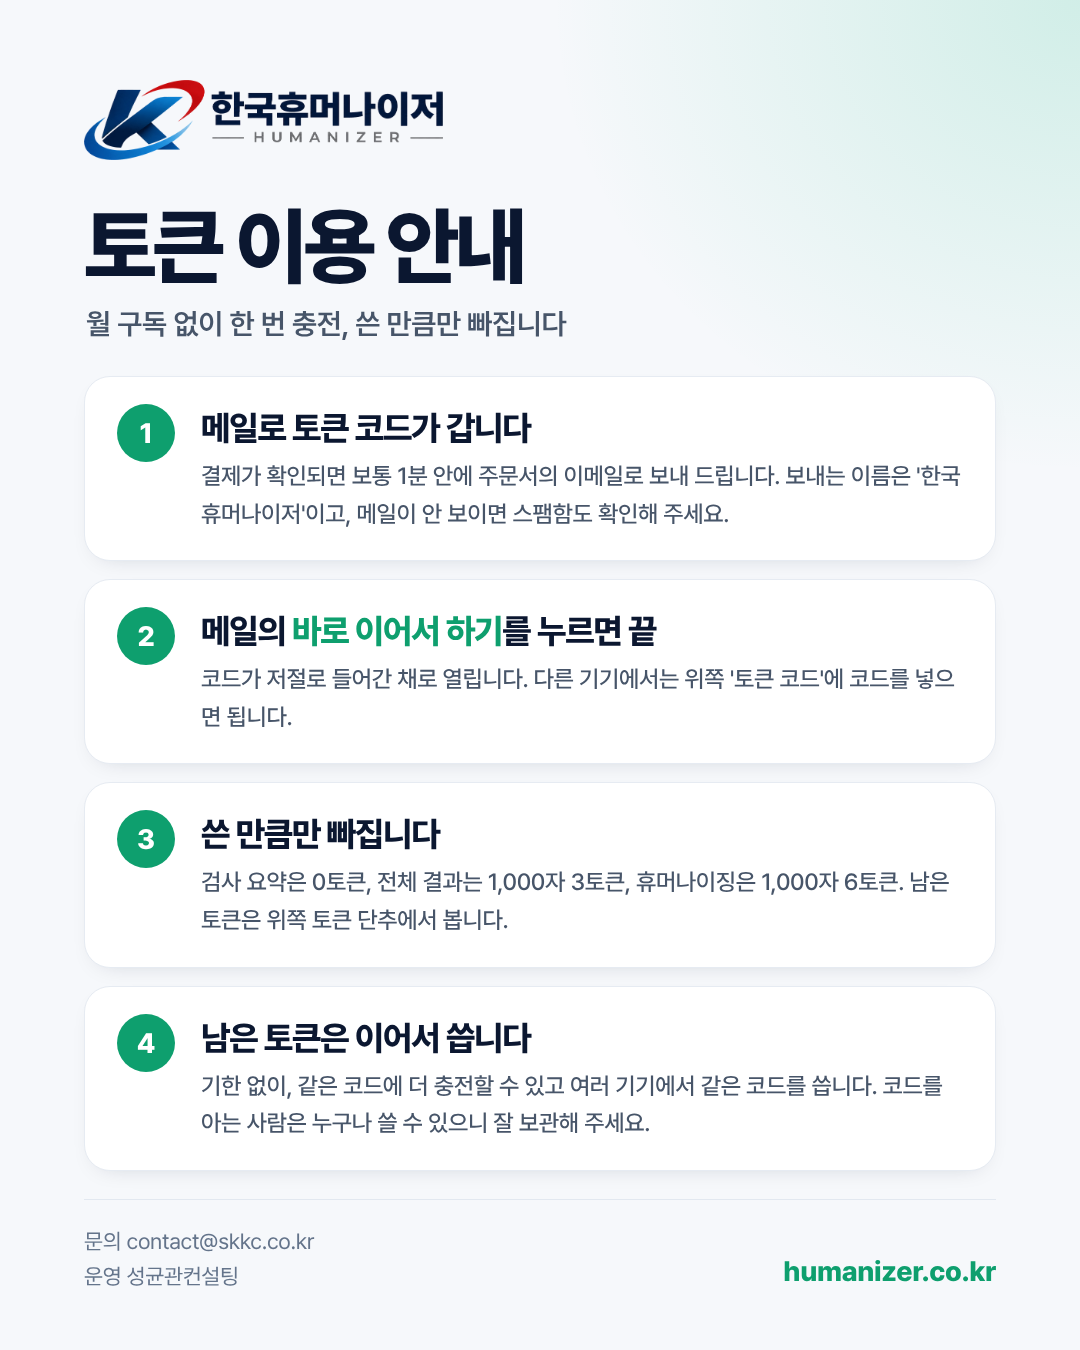
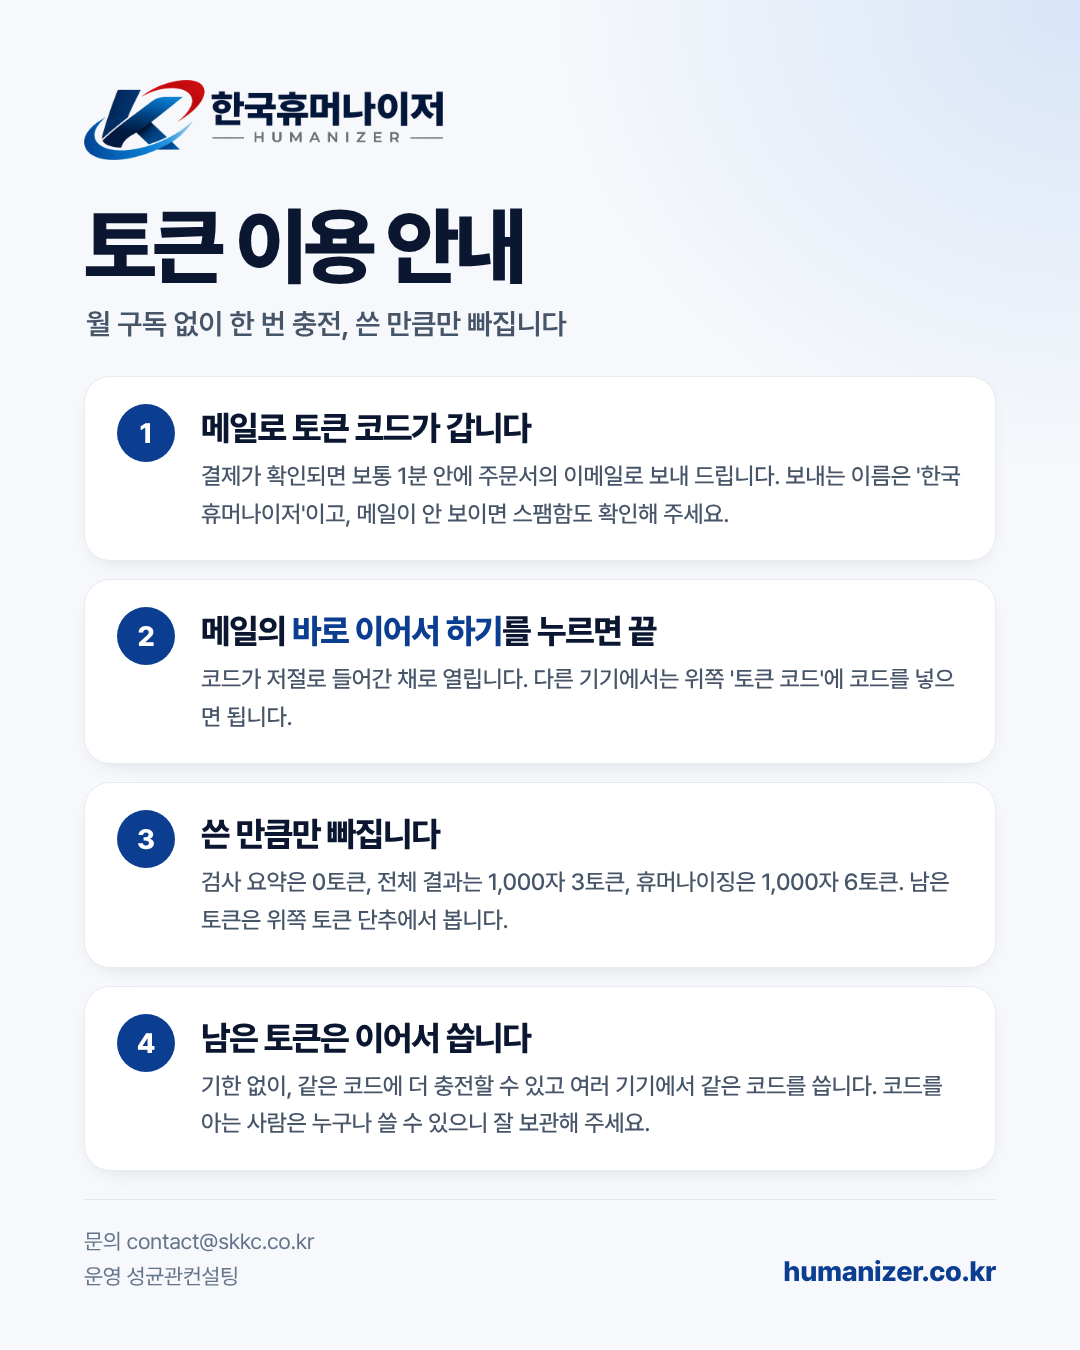
사이트 업데이트

diff --git a/_src/shop/render.py b/_src/shop/render.py
@@ -215,20 +215,31 @@ def guide3_html():
     assert "</style>" in h
     return h.replace("</style>", fix + "</style>", 1)
 
+# 2026.11.23 22:48 대표 '응 맞춰줘'(사이트를 로고 남색으로 바꾼 것에 맞춰 상품 그림 · 이용 안내 그림도): 초록을 남색 · 파랑으로 덮어씀(위 틀은 그대로 둠)
+NAVY_THUMB = (".card{background:radial-gradient(120%% 140%% at 100%% 100%%,#1d6fe0 0%%,rgba(29,111,224,0) 46%%),linear-gradient(135deg,#0a1530 0%%,#0d2346 52%%,#0b3d91 100%%)}"
+              ".pill.n{background:#1d6fe0;color:#fff}.dom{color:#0b3d91}").replace("%%", "%")
+NAVY_GUIDE = ("body{background:radial-gradient(70%% 50%% at 100%% 0%%,rgba(29,111,224,.14),transparent 70%%),#f6f8fb}"
+              ".n{background:#0b3d91}h3 em{color:#0b3d91}.ft b{color:#0b3d91}").replace("%%", "%")
+
+
+def navy(h, css):
+    assert "</style>" in h
+    return h.replace("</style>", css + "</style>", 1)
+
 async def main():
     async with async_playwright() as pw:
         br = await pw.chromium.launch(executable_path="/usr/bin/google-chrome", args=["--allow-file-access-from-files"])
         pg = await br.new_page(viewport={"width": 1200, "height": 1200}, device_scale_factor=1)
         for p in PACKS:
             f = os.path.join(HERE, "_t_%s.html" % p["id"])
-            open(f, "w").write(thumb2_html(p))
+            open(f, "w").write(navy(thumb2_html(p), NAVY_THUMB))
             await pg.goto("file://" + f)
             await pg.evaluate("document.fonts.ready")
             await pg.wait_for_timeout(250)
             await pg.screenshot(path=os.path.join(OUT, "hz-%s-1x1.jpg" % p["id"]), type="jpeg", quality=92)
         await pg.set_viewport_size({"width": 1080, "height": 1350})
         f = os.path.join(HERE, "_t_guide.html")
-        open(f, "w").write(guide3_html())
+        open(f, "w").write(navy(guide3_html(), NAVY_GUIDE))
         await pg.goto("file://" + f)
         await pg.evaluate("document.fonts.ready")
         await pg.wait_for_timeout(250)

diff --git a/_src/brand/og2.py b/_src/brand/og2.py
@@ -17,12 +17,13 @@ h1{position:absolute;left:76px;top:196px;font-size:64px;line-height:1.17;font-we
 p{position:absolute;left:78px;top:380px;font-size:25px;line-height:1.55;color:#475569;font-weight:500}
 .chips{position:absolute;left:78px;bottom:66px;display:flex;gap:12px}
 .chips span{height:46px;padding:0 20px;border-radius:23px;display:flex;align-items:center;font-size:21px;font-weight:700;border:1.5px solid #cbd5e1;color:#334155;background:#fff}
-.chips span:first-child{background:#0e9f6e;border-color:#0e9f6e;color:#fff}
+.chips span:first-child{background:#0b3d91;border-color:#0b3d91;color:#fff}
 .k{position:absolute;right:70px;top:150px;height:330px}
+.k{right:52px;top:162px;height:296px}h1{font-size:60px}
 </style></head><body>
 <img class="lg" src="%s" alt="">
-<h1>AI 작성률은 낮추고,<br>원문의 의미는 그대로.</h1>
-<p>킬러에서 검출되는 AI 패턴을 분석해 문장을 바꾸는<br>한국어 전용 휴머나이징 서비스</p>
+<h1>AI 작성률은 낮추고,<br>문장의 완성도는 높이고.</h1>
+<p>AI 탐지기가 감지하는 AI 작성률 패턴은 줄이고,<br>원문의 의미는 그대로 유지합니다.</p>
 <div class="chips"><span>무료 AI 작성률 검사</span><span>한글 · 워드 · PDF</span></div>
 <img class="k" src="%s" alt="">
 </body></html>"""
